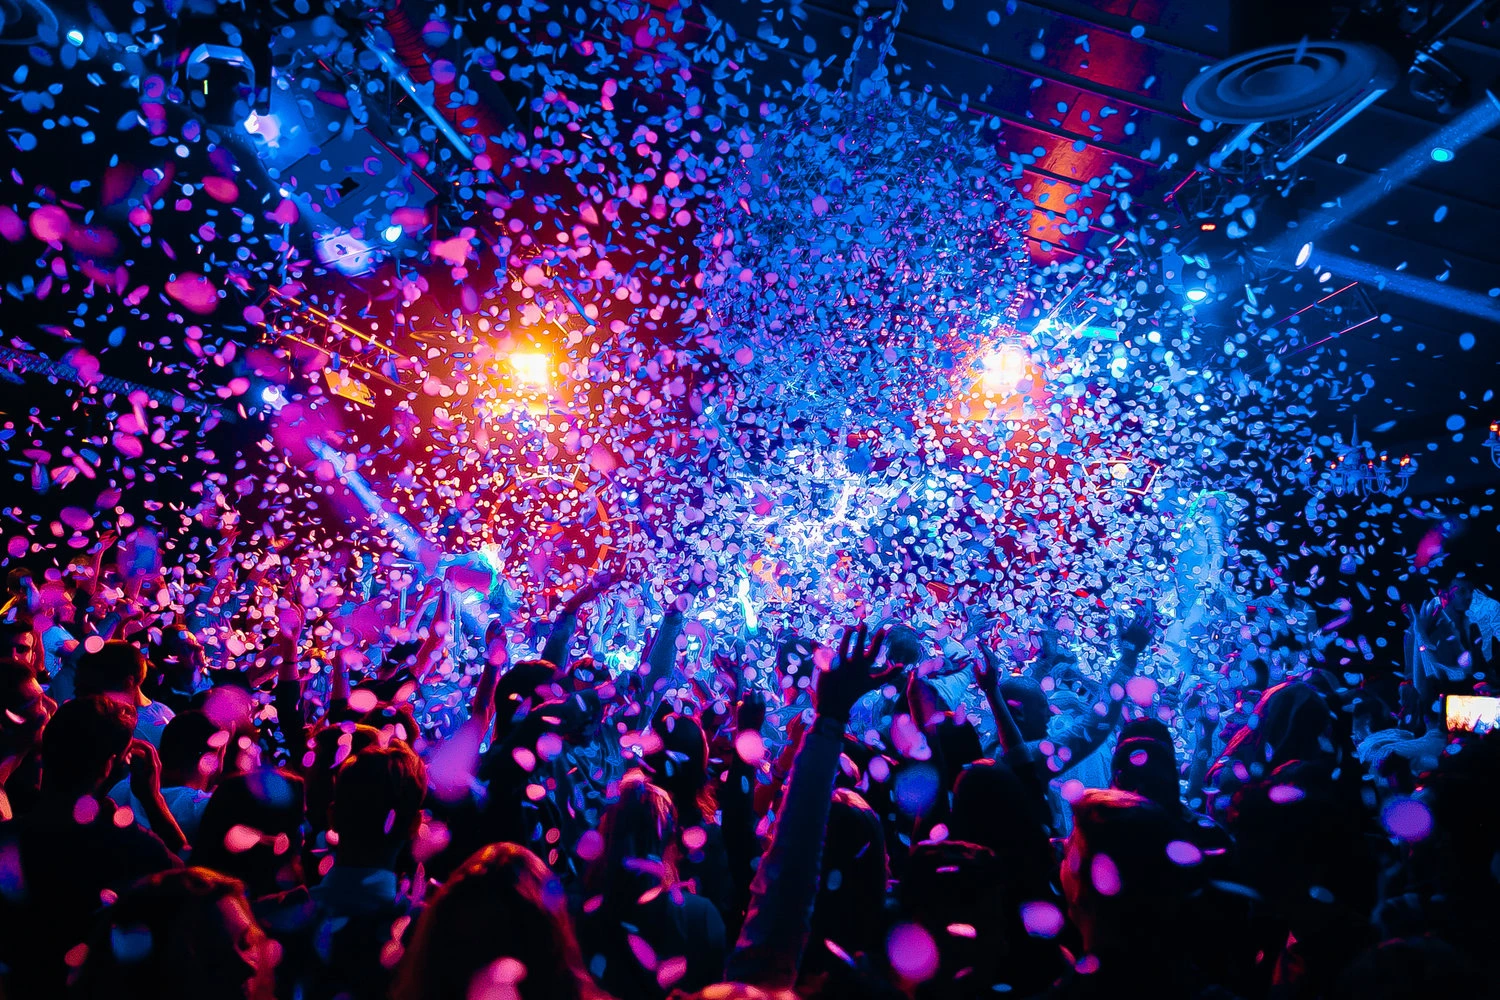
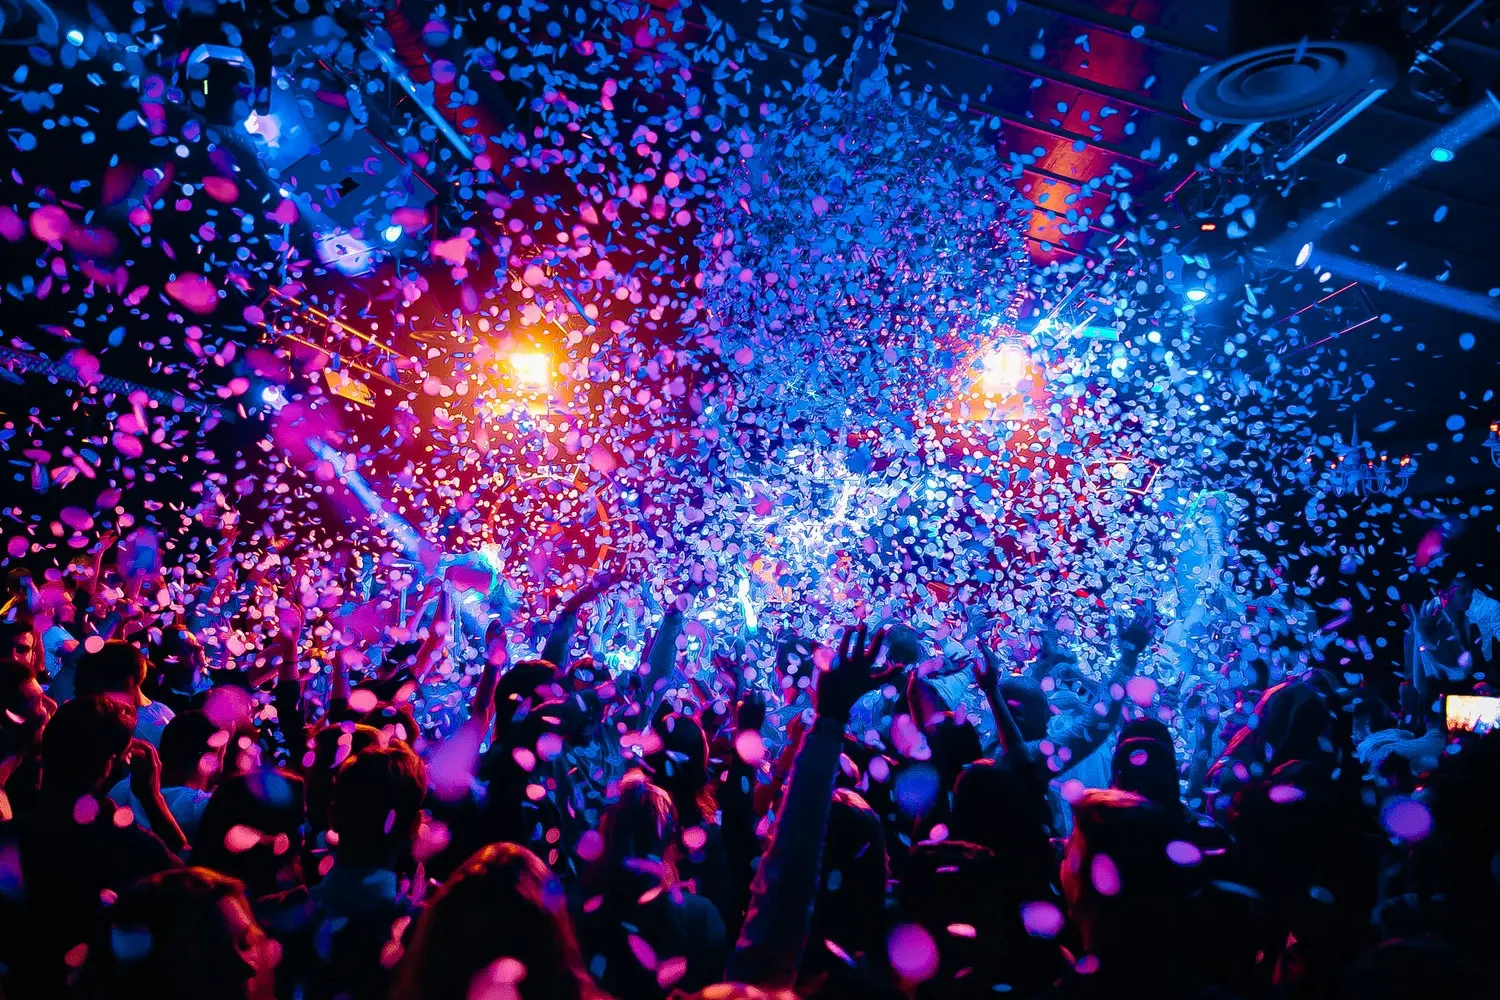
Compress header bg img

diff --git a/view/vite.config.js b/view/vite.config.js
@@ -1,28 +1,32 @@
-import {defineConfig} from "vite";
+import { defineConfig } from "vite";
 import viteReact from "@vitejs/plugin-react";
 import tailwindcss from "@tailwindcss/vite";
 
-import {TanStackRouterVite} from "@tanstack/router-plugin/vite";
-import {resolve} from "node:path";
+import { TanStackRouterVite } from "@tanstack/router-plugin/vite";
+import { resolve } from "node:path";
 
 // https://vitejs.dev/config/
 export default defineConfig({
-    plugins: [TanStackRouterVite({autoCodeSplitting: true}), viteReact(), tailwindcss()],
-    test: {
-        globals: true,
-        environment: "jsdom",
+  plugins: [
+    TanStackRouterVite({ autoCodeSplitting: true }),
+    viteReact(),
+    tailwindcss(),
+  ],
+  test: {
+    globals: true,
+    environment: "jsdom",
+  },
+  resolve: {
+    alias: {
+      "@": resolve(__dirname, "./src"),
     },
-    resolve: {
-        alias: {
-            '@': resolve(__dirname, './src'),
-        },
+  },
+  server: {
+    proxy: {
+      "/api": {
+        target: "http://localhost:3000/",
+        changeOrigin: true,
+      },
     },
-    server: {
-        proxy: {
-            "/api": {
-                target: "http://localhost:3000/",
-                changeOrigin: true,
-            }
-        }
-    },
+  },
 });

diff --git a/view/src/routes/index.tsx b/view/src/routes/index.tsx
@@ -1,7 +1,7 @@
 import { createFileRoute, Link } from "@tanstack/react-router";
 import { Highlight } from "@/components/ui/hero-highlight.tsx";
 import { motion } from "motion/react";
-import heroImg from "/heroBg.webp";
+import heroImg from "/public/heroBg.webp";
 import targetImg from "/target.webp";
 import pinImg from "/pin.webp";
 import dancingImg from "/dancing.webp";
@@ -48,6 +48,9 @@ function App() {
         <img
           src={heroImg}
           alt="Hero background image"
+          width={1500}
+          height={1000}
+          loading={"eager"}
           className="absolute inset-0 w-full h-full object-cover z-0"
         />
 

diff --git a/view/index.html b/view/index.html
@@ -3,6 +3,7 @@
 <head>
     <meta charset="UTF-8"/>
     <meta name="viewport" content="width=device-width, initial-scale=1.0"/>
+    <meta name="google-site-verification" content="6RmBmNnUvIOniKjaVt733vuA_uSvygnXJjHvVU697Tw"/>
     <link rel="icon" href="/favicon.ico"/>
     <meta name="theme-color" content="#000000"/>
     <meta
